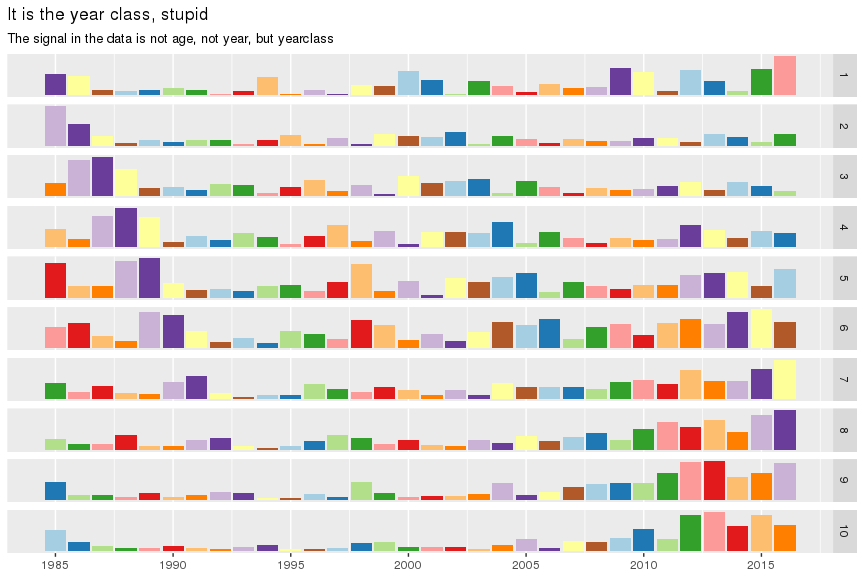
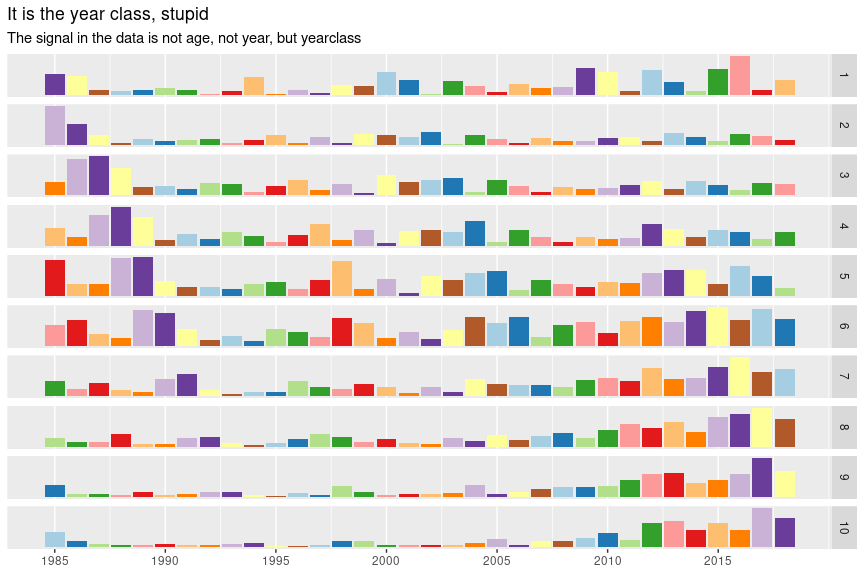
add scale_colour_crayola

diff --git a/README.md b/README.md
@@ -1,4 +1,11 @@
-# me doing gg
+---
+title: "me doing gg"
+output: 
+  html_document: 
+    fig_height: 6
+    fig_width: 9
+    keep_md: yes
+---
 
 
 
@@ -20,7 +27,7 @@ library(tidyverse)
 
 
 ```r
-read_csv("http://data.hafro.is/assmt/2016/cod/smb.csv") %>% 
+read_csv("http://data.hafro.is/assmt/2018/cod/smb.csv") %>% 
   gather(key = age, value = oU, -Year, convert = TRUE) %>% 
   rename(year = Year) %>% 
   mutate(yc = year - age) %>% 
